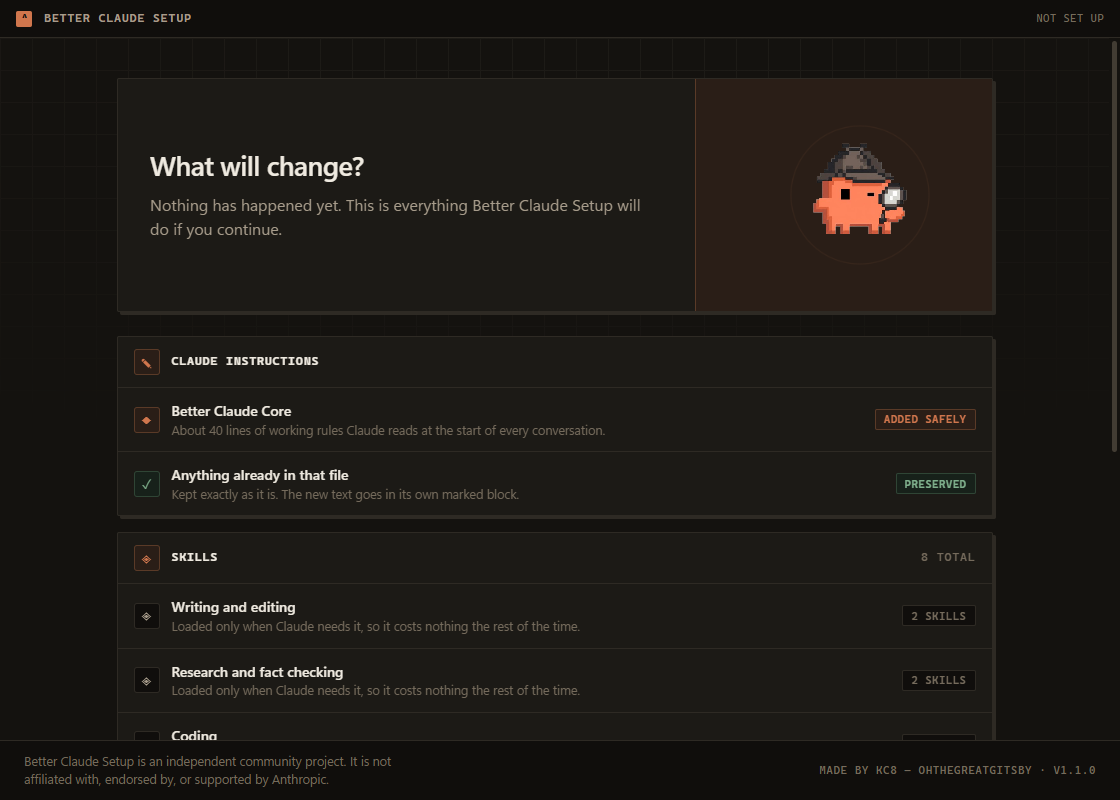
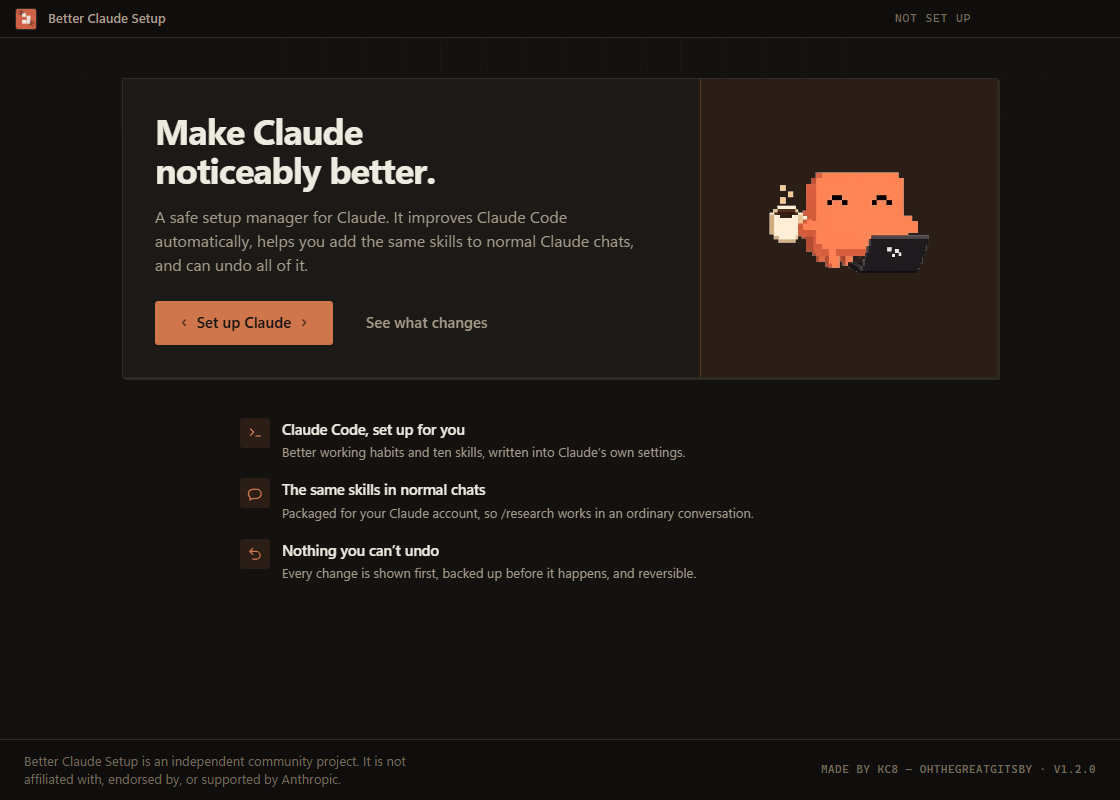
Prepare v1.2.0: docs, screenshots and download-first README
The README now opens with the product and direct per-architecture
download links pointing at releases/latest/download, so somebody who only
wants the installer does not have to read an essay or pick between six
files on the releases page.

The macOS links are labelled "unsigned preview" and carry the one command
that actually works, with an explanation of what it does. They will lose
that label when notarization is possible, not before.

Screenshots are retaken from this build. Documentation covers the two
Claude surfaces, the account boundary the app deliberately stops at, the
canonical skill source, and the native-control safe area.

diff --git a/src/renderer/src/screens/Scan.tsx b/src/renderer/src/screens/Scan.tsx
@@ -235,7 +235,7 @@ export function Scan({
 
         <DataRow
           icon={STAGES[5].icon}
-          label="Claude Chat &amp; Web"
+          label="Claude Chat & Web"
           sub={
             scan && stagesDone.includes('chat-skills')
               ? scan.chatSkills.state === 'confirmed'

diff --git a/docs/architecture.md b/docs/architecture.md
@@ -42,6 +42,8 @@ security surface. The second is mitigated by locking the renderer down hard — 
 │    env.ts          resolves every path from an injected Env, never os      │
 │    detect.ts       read-only scan; reports each stage as it finishes       │
 │    detect-desktop  finds the desktop app via the OS's own app records      │
+│    chat-skills.ts  builds Claude account upload packages, tracks state     │
+│    zip.ts          a minimal ZIP writer, so packaging adds no dependency   │
 │    catalog.ts      the component manifest (what exists, what it writes)    │
 │    content.ts      the actual text written into Claude's configuration     │
 │    installer.ts    plan → operations → apply with rollback → manifest      │
@@ -183,6 +185,59 @@ Everything this app owns lives under one directory, so a user can delete
   both Windows and macOS runners.
 - Releases attach per-architecture artifacts, a `SHA256SUMS.txt`, and build provenance
   attestations generated by GitHub.
+
+## Two Claude surfaces
+
+Better Claude Setup configures two things that Anthropic keeps deliberately separate:
+
+| | Claude Code | Claude account |
+| --- | --- | --- |
+| Storage | files under `~/.claude` | uploaded to the account |
+| Written by | this app, directly | the user, guided by this app |
+| Verified by | reading the files back | the user's confirmation only |
+| Reaches | CLI, IDEs, desktop Code tab | web chat, desktop Chat, Cowork |
+
+They do not sync — Anthropic's documentation says so explicitly — so the app models them as
+two surfaces with two states rather than one "installed" flag.
+
+The account side stops at a hard boundary. There is no documented consumer API for adding a
+skill to a personal Claude account, so the app builds the upload packages and guides the
+step. It never reads a Claude session, cookie, token or local Claude database to close the
+gap, and its state for that surface is called "confirmed by you" in the interface because
+that is exactly what it is.
+
+`chat-skills.ts` fingerprints package contents with a hash, which is what lets the manager
+say "update available" honestly: it compares what the app would now produce against what
+the user last confirmed uploading, never against the account.
+
+## One canonical skill source
+
+`content.ts` holds one definition per skill and exports per surface:
+
+```
+CanonicalSkill ──> toClaudeCodeSkill()  ──> ~/.claude/skills/<command>/SKILL.md
+               ──> toChatSkill()        ──> <command>.zip  (account upload)
+               ──> toLegacyAliasSkill() ──> the v1.1 command name, optional
+```
+
+The frontmatter differs by surface — Anthropic documents a 200 character description limit
+for account skills against Claude Code's far looser listing budget — but the body is written
+once. Two hand-maintained copies would drift, and `/research` would quietly come to mean
+different things in different places.
+
+## The native-control safe area
+
+The window draws its own title strip while the operating system draws its controls on top.
+Keeping content out from under them is not a margin to be tuned by eye:
+
+- **Windows** publishes the overlay geometry to CSS as `env(titlebar-area-x)` and
+  `env(titlebar-area-width)`. Those already account for display scaling and for the controls
+  changing size, so they are the only correct source.
+- **macOS** does not publish them for an inset title bar, but its traffic lights sit at a
+  known inset and disappear in fullscreen, which the main process reports over IPC.
+
+`scripts/titlebar-probe.cjs` measures the content edge against the safe edge at several
+window widths, and is run at 100%, 125% and 150% display scale.
 
 ## Design system
 

diff --git a/TASKS.md b/TASKS.md
@@ -98,9 +98,30 @@ actually run, not when the code that would do it was written.
 - [x] Playwright interface tests over the whole critical path, wired into CI
 - [x] Visual review of every screen in dark, light and at a narrow window size
 
+## DONE — v1.2.0
+
+- [x] Confirm the local logo work was safe: already committed as 64fdd30 and pushed
+- [x] Re-research Claude account skills; the v1.1 "chats cannot use these" claim is now wrong
+- [x] Diagnose the macOS "damaged" failure: the app had no signature at all, because
+      electron-builder skips signing with no certificate and does not fall back to ad-hoc
+- [x] Fix it with explicit ad-hoc signing and hardened runtime off, verified on a macOS
+      arm64 runner including a quarantined copy and a real process launch
+- [x] One canonical skill source exporting to Claude Code and Claude account formats
+- [x] Rename the commands, avoiding the /plan and /deep-research collisions
+- [x] Build account upload packages with an in-repo ZIP writer, no new dependency
+- [x] Guided three-step chat setup that never touches the account
+- [x] Separate Claude Code and Claude Chat surfaces throughout, with specific status wording
+- [x] Fix the native-control overlap using the overlay geometry the OS publishes,
+      measured at four widths across three display scales
+- [x] Interface polish: SVG icon set, interface-font panel titles, larger type, quieter grid
+- [x] Dedicated small logo mark cropped from the supplied artwork
+- [x] Download-first README with direct per-architecture links
+
 ## TODO — next
 
-- [ ] Sign and notarise once certificates exist
+- [ ] Sign and notarise once certificates exist — the single largest remaining gap
+- [ ] Behavioural evaluation of the skills themselves across both surfaces; current tests
+      assert content and packaging, not answer quality
 - [ ] Confirm macOS desktop-app detection against a real macOS installation
 - [ ] Detect the languages a user actually works in, and offer the matching LSP plugin
 - [ ] Update checking for installed components, with a visible diff of what changed

diff --git a/docs/security.md b/docs/security.md
@@ -128,9 +128,32 @@ Reading the registry is a read; the app never writes to it.
 shipped application, where `realEnv()` never populates it, so there is no path by which a
 renderer or a configuration file could substitute a command runner.
 
+## The Claude account boundary
+
+Support for ordinary Claude chats deliberately stops where automation would require
+handling the user's Claude account. The app:
+
+- **does not** sign in, read cookies, read session tokens, or touch Claude's own local
+  application data
+- **does not** call undocumented account endpoints or automate a hidden browser flow
+- **does** build upload packages from local content, open a folder, and open documented
+  https pages in the user's own browser
+- **does** record the user's own statement that they completed the upload, and describes it
+  in the interface as their confirmation rather than as a detection
+
+There is no documented consumer API for installing a skill into a personal Claude account.
+If one appears, it can be adopted; until then a guided manual step is the honest option, and
+faking the rest would mean exactly the credential handling this project refuses.
+
+The generated archives contain only Markdown built from this repository's own content. No
+scripts, no executables, no network references.
+
 ## Dependencies
 
 Runtime: `react`, `react-dom`. That is all.
+
+Packaging skills as zip archives is done by a 116-line writer in `core/zip.ts` rather than
+by adding an archiving library, keeping the shipped dependency count unchanged.
 
 Everything else, including Playwright, is a build-time dependency and is not shipped
 inside the application bundle. All versions are pinned exactly (`--save-exact`), and `npm ci` in CI installs from
